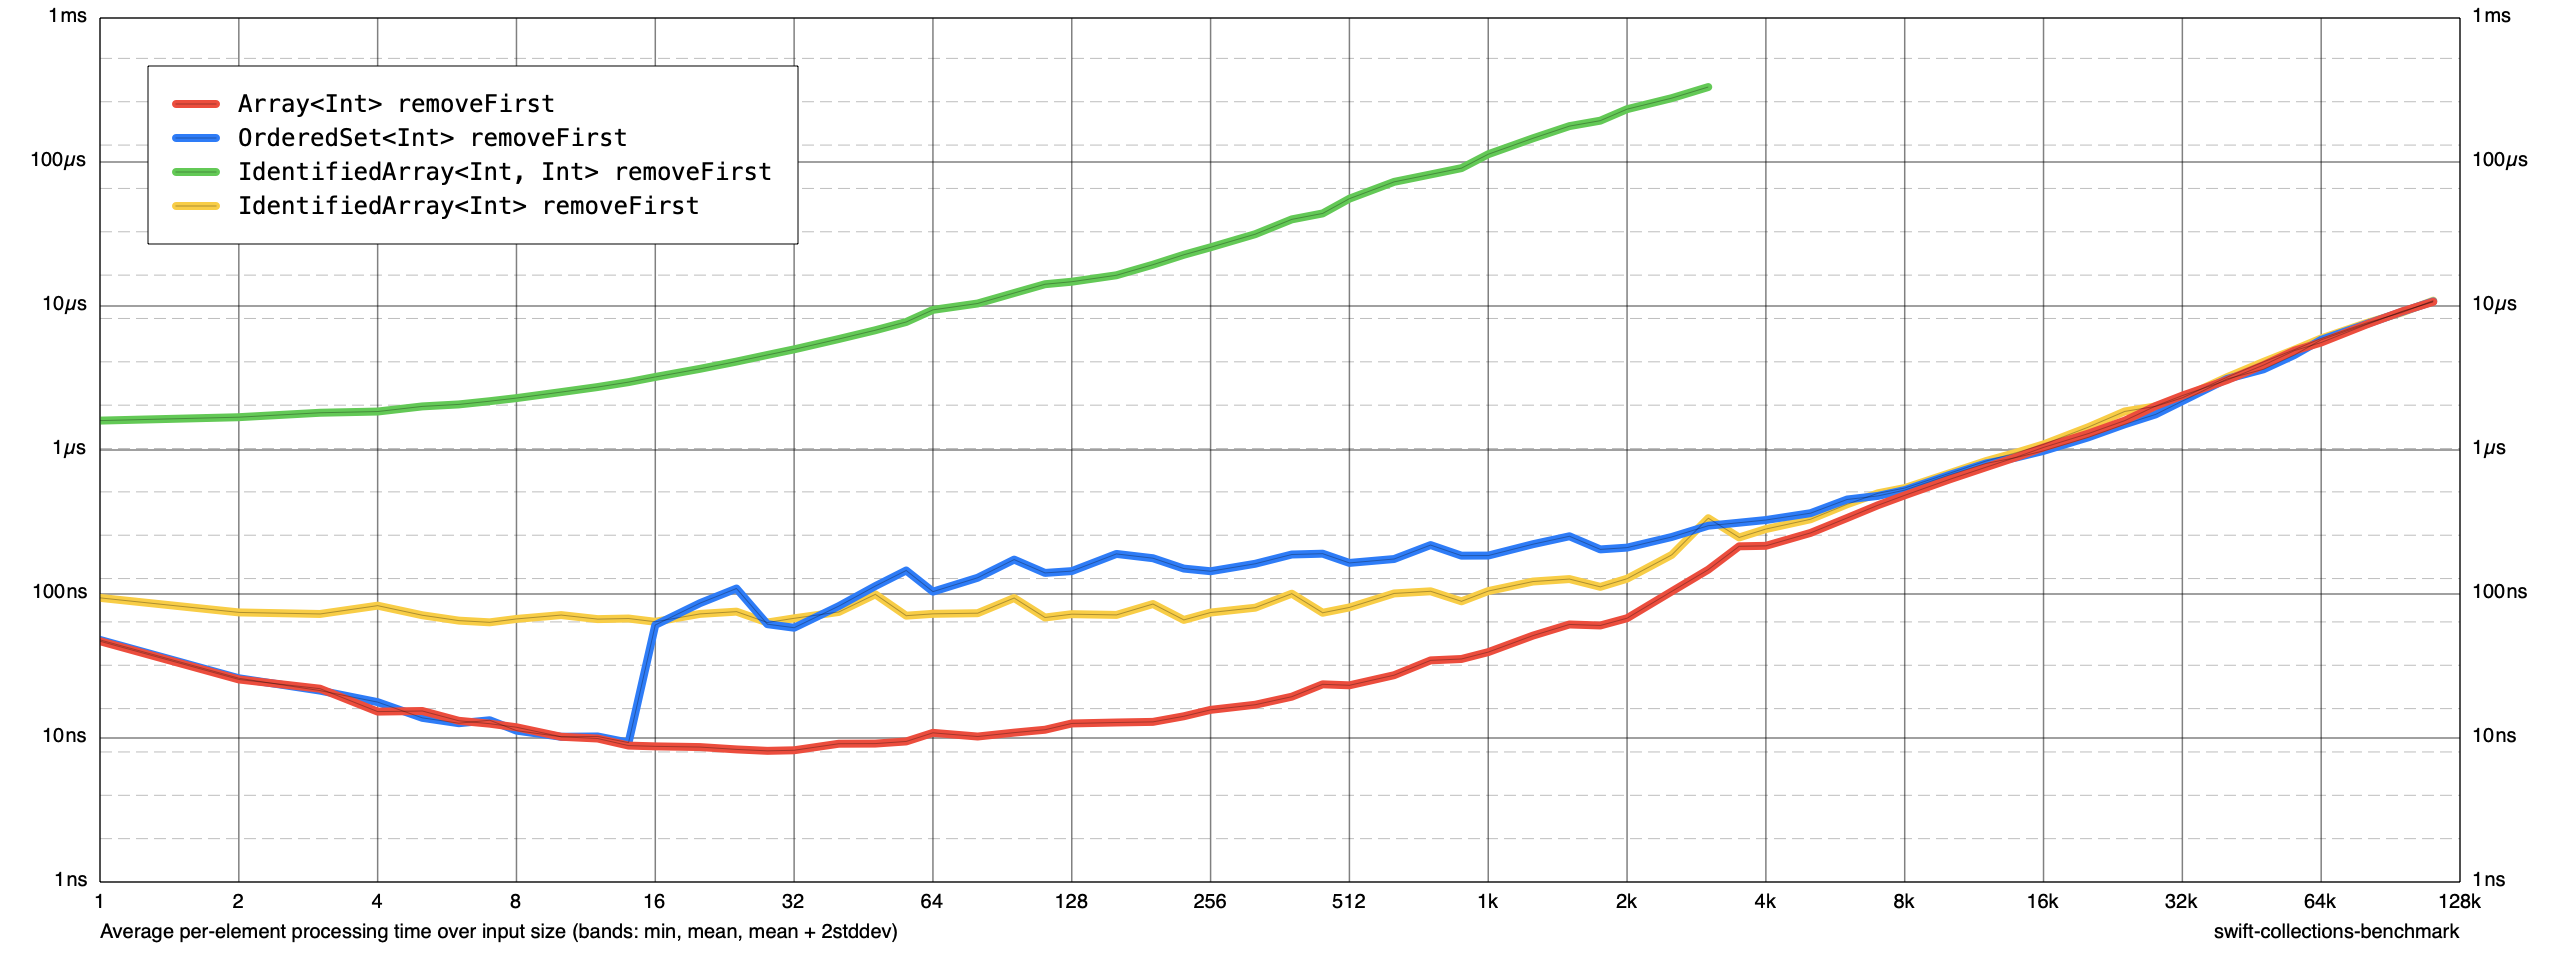
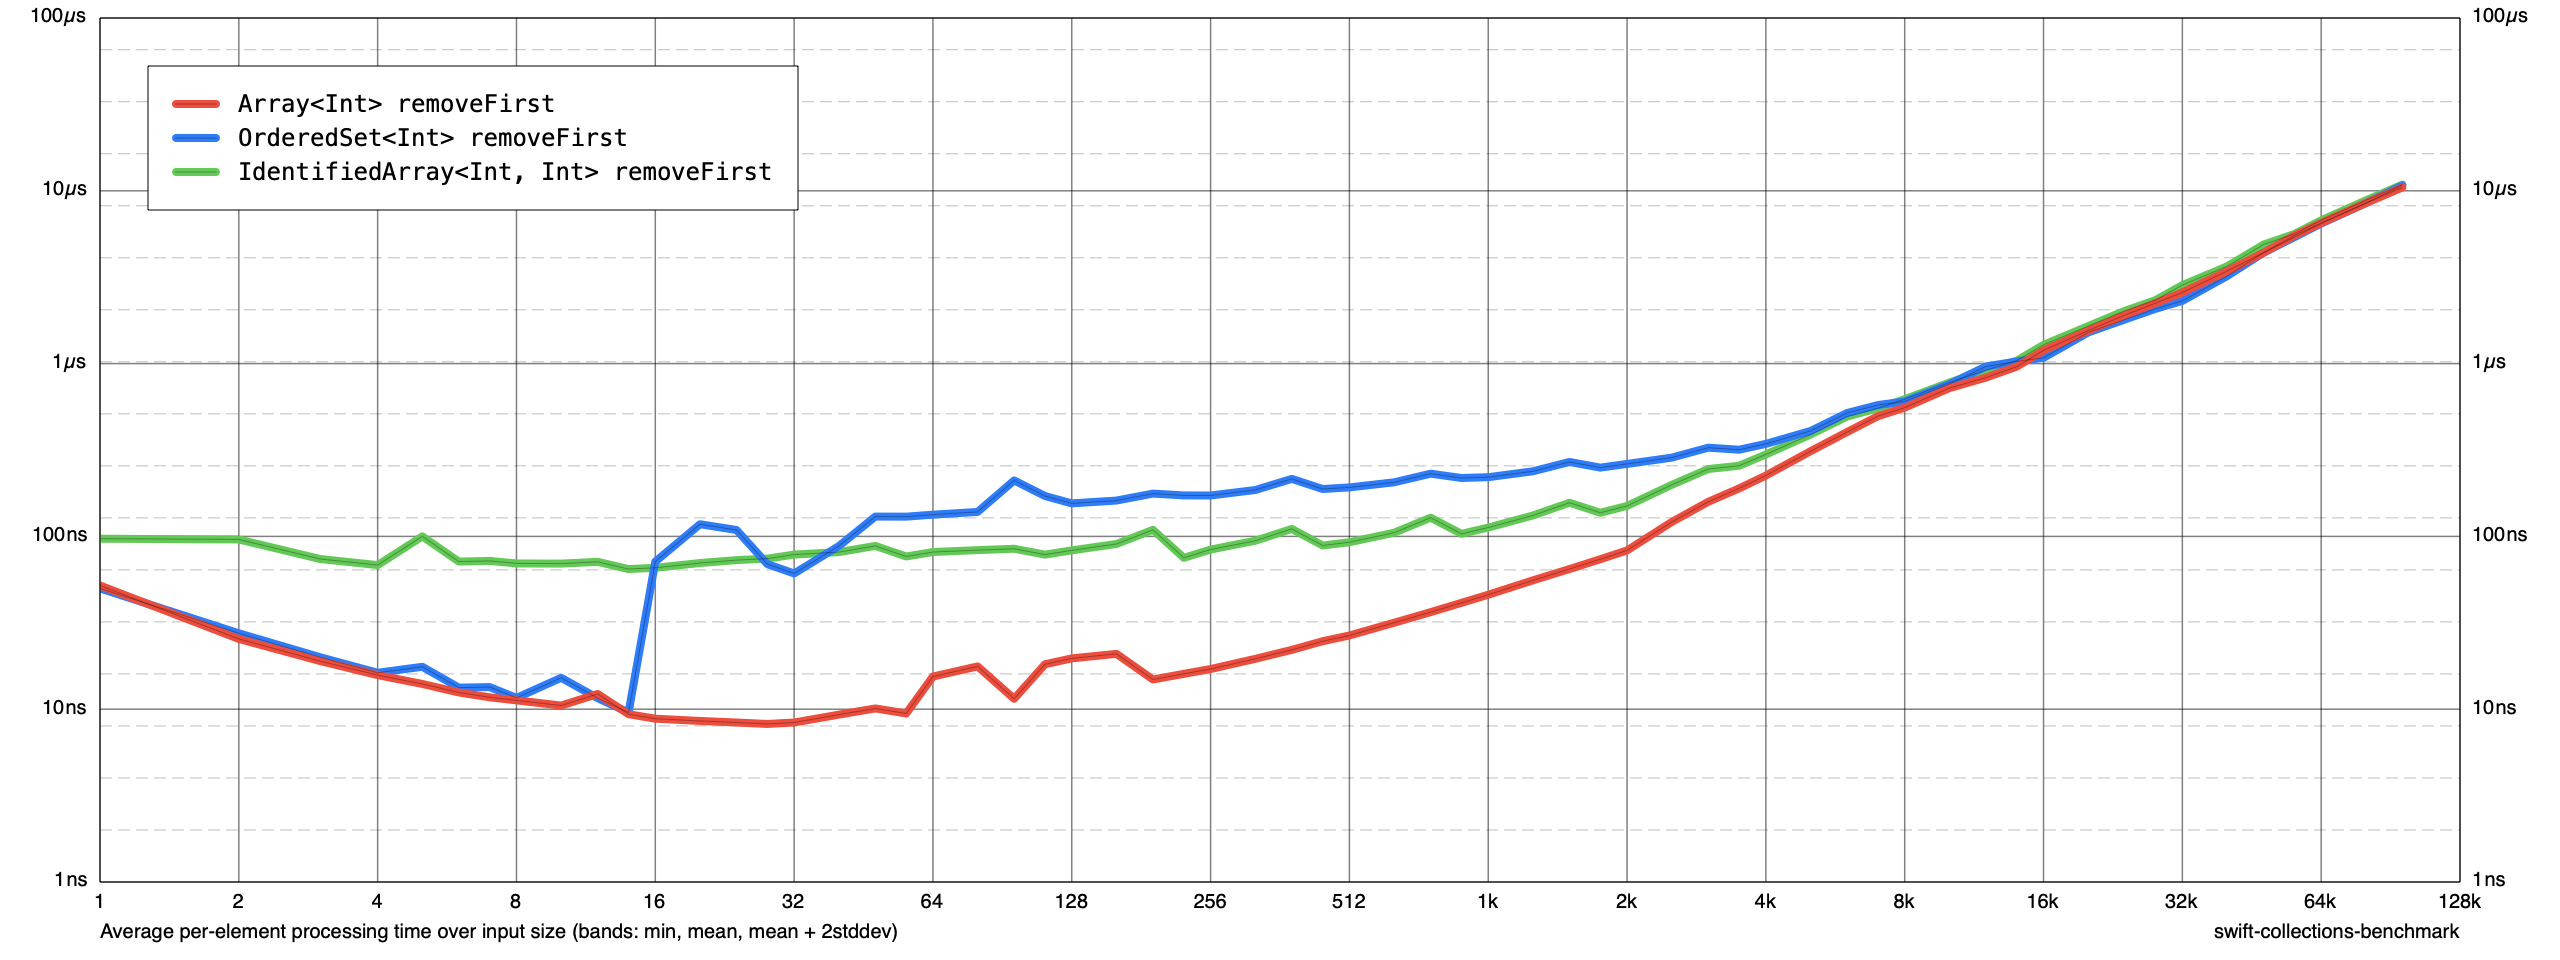
wip

diff --git a/Sources/ComposableArchitecture/SwiftUI/IdentifiedArray/_IdentifiedArray.swift b/Sources/ComposableArchitecture/SwiftUI/IdentifiedArray/_IdentifiedArray.swift
@@ -1,36 +1,36 @@
-public struct IdentifiedArray<Element> where Element: Identifiable {
+public struct IdentifiedArray<ID, Element> where ID: Hashable{
   @usableFromInline
-  var _ids: ContiguousArray<Element.ID>
+  let id: KeyPath<Element, ID>
 
   @usableFromInline
-  var _elements: [Element.ID: Element]
+  var _ids: ContiguousArray<ID>
 
-  @inlinable
-  public init<C: RandomAccessCollection>(_ elements: C) where C.Element == Element {
-    let count = elements.count
-    self._ids = .init()
-    self._ids.reserveCapacity(count)
-    self._elements = .init(minimumCapacity: count)
-    for element in elements {
-      self._ids.append(element.id)
-      self._elements[element.id] = element
-    }
-  }
+  @usableFromInline
+  var _elements: [ID: Element]
+
+  #warning("TODO")
+//  public init<S>(_ elements: S, id: KeyPath<Element, ID>) where S: Sequence, S.Element == Element {
+//    self.id = id
+//
+//    let idsAndElements = elements.map { (id: $0[keyPath: id], element: $0) }
+//    self.ids = idsAndElements.map { $0.id }
+//    self.dictionary = Dictionary(idsAndElements, uniquingKeysWith: { $1 })
+//  }
 
   @inlinable
   @inline(__always)
-  public var ids: ContiguousArray<Element.ID> { self._ids }
+  public var ids: ContiguousArray<ID> { self._ids }
 
   @inlinable
   @inline(__always)
-  public subscript(id id: Element.ID) -> Element? {
+  public subscript(id id: ID) -> Element? {
     _read { yield self._elements[id] }
     _modify { yield &self._elements[id] }
   }
 
   @discardableResult
   @inlinable
-  public mutating func remove(id: Element.ID) -> Element? {
+  public mutating func remove(id: ID) -> Element? {
     self._ids.removeAll(where: { $0 == id })
     return self._elements.removeValue(forKey: id)
   }
@@ -69,8 +69,8 @@ extension IdentifiedArray: MutableCollection {
       let id = self._ids[position]
       var element = self._elements[id]!
       yield &element
-      self._ids[position] = element.id
-      self._elements[element.id] = element
+      self._ids[position] = element[keyPath: self.id]
+      self._elements[element[keyPath: self.id]] = element
     }
   }
 
@@ -78,16 +78,30 @@ extension IdentifiedArray: MutableCollection {
 
   @inlinable
   public mutating func append(_ newElement: Element) {
-    self._ids.append(newElement.id)
-    self._elements[newElement.id] = newElement
+    self._ids.append(newElement[keyPath: self.id])
+    self._elements[newElement[keyPath: self.id]] = newElement
   }
 }
 
-extension IdentifiedArray: RangeReplaceableCollection {
+extension IdentifiedArray: RangeReplaceableCollection where Element: Identifiable, ID == Element.ID {
   @inlinable
   public init() {
+    self.id = \.id
     self._ids = .init()
     self._elements = .init()
+  }
+
+  @inlinable
+  public init<C: RandomAccessCollection>(_ elements: C) where C.Element == Element {
+    self.id = \.id
+    let count = elements.count
+    self._ids = .init()
+    self._ids.reserveCapacity(count)
+    self._elements = .init(minimumCapacity: count)
+    for element in elements {
+      self._ids.append(element[keyPath: self.id])
+      self._elements[element[keyPath: self.id]] = element
+    }
   }
 
   // MARK: performance/correctness overloads
@@ -106,14 +120,14 @@ extension IdentifiedArray: RangeReplaceableCollection {
     for id in self._ids[subrange] {
       self._elements.removeValue(forKey: id)
     }
-    self._ids.replaceSubrange(subrange, with: newElements.map { $0.id })
+    self._ids.replaceSubrange(subrange, with: newElements.map { $0[keyPath: self.id] })
     for element in newElements {
-      self._elements[element.id] = element
+      self._elements[element[keyPath: self.id]] = element
     }
   }
 }
 
-extension IdentifiedArray: ExpressibleByArrayLiteral {
+extension IdentifiedArray: ExpressibleByArrayLiteral where Element: Identifiable, ID == Element.ID {
   @inlinable
   public init(arrayLiteral elements: Element...) {
     self.init(elements)
@@ -135,3 +149,5 @@ extension IdentifiedArray: CustomStringConvertible {
     Array(self).description
   }
 }
+
+public typealias IdentifiedArrayOf<Element> = IdentifiedArray<Element.ID, Element> where Element: Identifiable

diff --git a/Sources/identified-array-benchmark/main.swift b/Sources/identified-array-benchmark/main.swift
@@ -62,69 +62,69 @@ var benchmark = Benchmark(title: "Identified Benchmark")
 //  }
 //}
 
-benchmark.add(
-  title: "Array<Int> removeFirst",
-  input: Int.self
-) { size in
-  return { timer in
-    var array = Array(0 ..< size)
-    timer.measure {
-      for _ in 0 ..< size {
-        array.removeFirst()
-      }
-    }
-    precondition(array.isEmpty)
-    blackHole(array)
-  }
-}
-
-benchmark.add(
-  title: "OrderedSet<Int> removeFirst",
-  input: Int.self
-) { size in
-  return { timer in
-    var set = OrderedSet(0 ..< size)
-    timer.measure {
-      for _ in 0 ..< size {
-        set.removeFirst()
-      }
-    }
-    precondition(set.isEmpty)
-    blackHole(set)
-  }
-}
-
-benchmark.add(
-  title: "IdentifiedArray<Int, Int> removeFirst",
-  input: Int.self
-) { size in
-  return { timer in
-    var array = IdentifiedArray(0 ..< size)
-    timer.measure {
-      for _ in 0 ..< size {
-        array.removeFirst()
-      }
-    }
-    precondition(array.isEmpty)
-    blackHole(array)
-  }
-}
-
-benchmark.add(
-  title: "IdentifiedArray<Int> removeFirst",
-  input: Int.self
-) { size in
-  return { timer in
-    var array = _IdentifiedArray(0 ..< size)
-    timer.measure {
-      for _ in 0 ..< size {
-        array.removeFirst()
-      }
-    }
-    precondition(array.isEmpty)
-    blackHole(array)
-  }
-}
+//benchmark.add(
+//  title: "Array<Int> removeFirst",
+//  input: Int.self
+//) { size in
+//  return { timer in
+//    var array = Array(0 ..< size)
+//    timer.measure {
+//      for _ in 0 ..< size {
+//        array.removeFirst()
+//      }
+//    }
+//    precondition(array.isEmpty)
+//    blackHole(array)
+//  }
+//}
+//
+//benchmark.add(
+//  title: "OrderedSet<Int> removeFirst",
+//  input: Int.self
+//) { size in
+//  return { timer in
+//    var set = OrderedSet(0 ..< size)
+//    timer.measure {
+//      for _ in 0 ..< size {
+//        set.removeFirst()
+//      }
+//    }
+//    precondition(set.isEmpty)
+//    blackHole(set)
+//  }
+//}
+//
+//benchmark.add(
+//  title: "IdentifiedArray<Int, Int> removeFirst",
+//  input: Int.self
+//) { size in
+//  return { timer in
+//    var array = IdentifiedArray(0 ..< size)
+//    timer.measure {
+//      for _ in 0 ..< size {
+//        array.removeFirst()
+//      }
+//    }
+//    precondition(array.isEmpty)
+//    blackHole(array)
+//  }
+//}
+//
+//benchmark.add(
+//  title: "IdentifiedArray<Int> removeFirst",
+//  input: Int.self
+//) { size in
+//  return { timer in
+//    var array = _IdentifiedArray(0 ..< size)
+//    timer.measure {
+//      for _ in 0 ..< size {
+//        array.removeFirst()
+//      }
+//    }
+//    precondition(array.isEmpty)
+//    blackHole(array)
+//  }
+//}
 
 //benchmark.addSimple(
 //  title: "Array<Int> append",

diff --git a/Examples/Todos/Todos/Todos.swift b/Examples/Todos/Todos/Todos.swift
@@ -10,9 +10,9 @@ enum Filter: LocalizedStringKey, CaseIterable, Hashable {
 struct AppState: Equatable {
   var editMode: EditMode = .inactive
   var filter: Filter = .all
-  var todos: IdentifiedArray<Todo> = []
+  var todos: IdentifiedArrayOf<Todo> = []
 
-  var filteredTodos: IdentifiedArray<Todo> {
+  var filteredTodos: IdentifiedArrayOf<Todo> {
     switch filter {
     case .active: return self.todos.filter { !$0.isComplete }
     case .all: return self.todos
@@ -72,7 +72,7 @@ let appReducer = Reducer<AppState, AppAction, AppEnvironment>.combine(
         .eraseToEffect()
 
     case .sortCompletedTodos:
-      state.todos.sortCompleted()
+      state.todos.sort(by: { !$0.isComplete && $1.isComplete })
       return .none
 
     case .todo(id: _, action: .checkBoxToggled):
@@ -152,20 +152,7 @@ struct AppView: View {
   }
 }
 
-extension IdentifiedArray where Element == Todo {
-  fileprivate mutating func sortCompleted() {
-    // Simulate stable sort
-    self = IdentifiedArray(
-      self.enumerated()
-        .sorted(by: { lhs, rhs in
-          (rhs.element.isComplete && !lhs.element.isComplete) || lhs.offset < rhs.offset
-        })
-        .map(\.element)
-    )
-  }
-}
-
-extension IdentifiedArray where Element == Todo {
+extension IdentifiedArray where ID == UUID, Element == Todo {
   static let mock: Self = [
     Todo(
       description: "Check Mail",

diff --git a/Sources/ComposableArchitecture/Reducer.swift b/Sources/ComposableArchitecture/Reducer.swift
@@ -845,16 +845,15 @@ public struct Reducer<State, Action, Environment> {
   ///     generally considered a logic error, as a child reducer cannot process a child action
   ///     for unavailable child state.
   /// - Returns: A reducer that works on `GlobalState`, `GlobalAction`, `GlobalEnvironment`.
-  public func forEach<GlobalState, GlobalAction, GlobalEnvironment>(
-    state toLocalState: WritableKeyPath<GlobalState, IdentifiedArray<State>>,
-    action toLocalAction: CasePath<GlobalAction, (State.ID, Action)>,
+  public func forEach<GlobalState, GlobalAction, GlobalEnvironment, ID>(
+    state toLocalState: WritableKeyPath<GlobalState, IdentifiedArray<ID, State>>,
+    action toLocalAction: CasePath<GlobalAction, (ID, Action)>,
     environment toLocalEnvironment: @escaping (GlobalEnvironment) -> Environment,
     breakpointOnNil: Bool = true,
     _ file: StaticString = #file,
     _ line: UInt = #line
 
-  ) -> Reducer<GlobalState, GlobalAction, GlobalEnvironment>
-  where State: Identifiable {
+  ) -> Reducer<GlobalState, GlobalAction, GlobalEnvironment> {
     .init { globalState, globalAction, globalEnvironment in
       guard let (id, localAction) = toLocalAction.extract(from: globalAction) else { return .none }
       if globalState[keyPath: toLocalState][id: id] == nil {

diff --git a/Sources/ComposableArchitecture/SwiftUI/ForEachStore.swift b/Sources/ComposableArchitecture/SwiftUI/ForEachStore.swift
@@ -139,14 +139,12 @@ where Data: Collection, ID: Hashable, Content: View {
   ///   - store: A store on an identified array of data and an identified action.
   ///   - content: A function that can generate content given a store of an element.
   public init<EachContent: View>(
-    _ store: Store<IdentifiedArray<EachState>, (ID, EachAction)>,
+    _ store: Store<IdentifiedArray<ID, EachState>, (ID, EachAction)>,
     @ViewBuilder content: @escaping (Store<EachState, EachAction>) -> EachContent
   )
   where
-    EachState: Identifiable,
-    EachState.ID == ID,
     EachContent: View,
-    Data == IdentifiedArray<EachState>,
+    Data == IdentifiedArray<ID, EachState>,
     Content == WithViewStore<
       ContiguousArray<ID>, (ID, EachAction), ForEach<ContiguousArray<ID>, ID, EachContent>
     >

diff --git a/Sources/ComposableArchitecture/SwiftUI/IdentifiedArray.swift b/Sources/ComposableArchitecture/SwiftUI/IdentifiedArray.swift
@@ -1,8 +1,5 @@
 //import Foundation
 //
-//// : Identifiable
-//// : OrderedSet
-//
 ///// An array of elements that can be identified by a given key path.
 /////`
 ///// A useful container of state that is intended to interface with SwiftUI/`ForEach`. For example,
